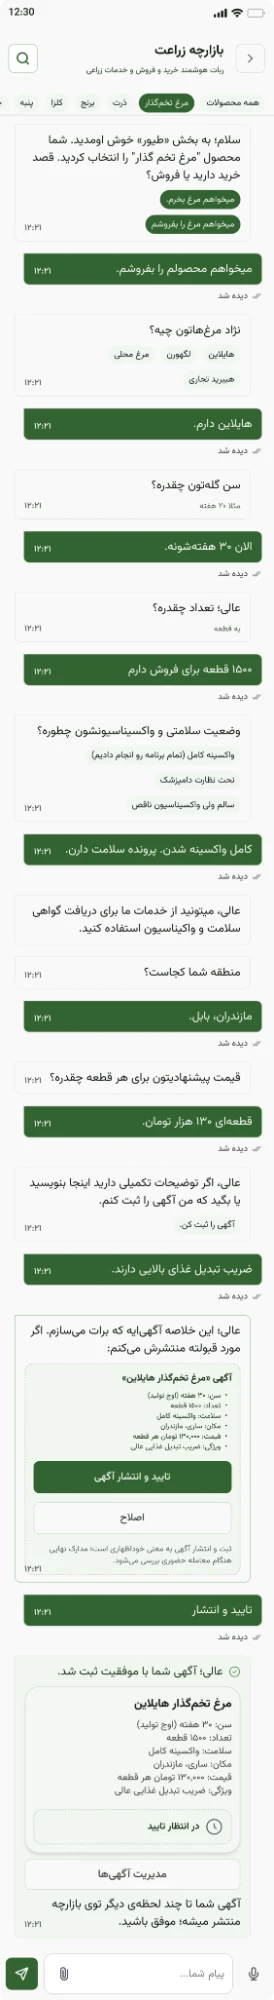
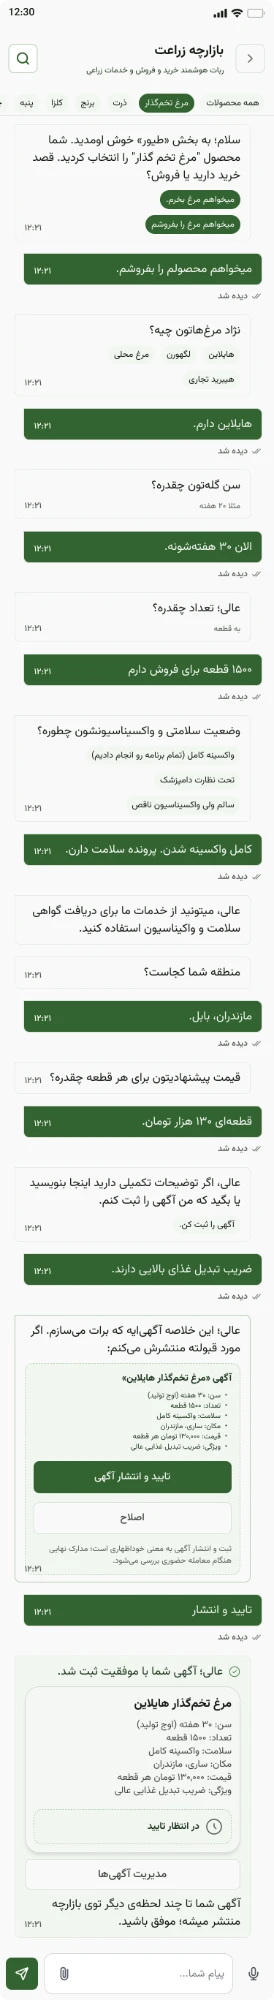
Lead Agrino's case study with its price screens
The newer price screens (today's prices, wheat's average, a price alert)
become the hero. The earlier hero screens move into the market bot's numbered
steps, start and ask, ahead of the full ad flow, which is swapped for a
cleaner export. The unused wheat-bot intro is dropped.

diff --git a/Agrino.html b/Agrino.html
@@ -83,24 +83,24 @@
            its GSAP fade-up. The two must never share an element. -->
       <div class="ag-hero-shot" data-speed="0.04" style="width: 272px; max-width: 100%; transform: translateY(14px);">
       <figure data-gsap="fade-up" style="margin: 0; border-radius: 32px; overflow: hidden; border: 1px solid #dce0e6; box-shadow: 0 24px 60px rgba(20,23,28,.16); background: #fff;">
-        <img src="assets/agrino-market-bot.webp" alt="Agrino market bot — a greeting and four starting points: top ads, post an ad, today's prices, a guide" style="display: block; width: 100%; height: auto;">
+        <img src="assets/agrino-prices.webp" alt="Agrino market bot — today's national average prices for five crops, each with its daily change" style="display: block; width: 100%; height: auto;">
       </figure>
       </div>
       <div class="ag-hero-shot" data-speed="-0.06" style="width: 272px; max-width: 100%;">
       <figure data-gsap="fade-up" style="margin: 0; border-radius: 32px; overflow: hidden; border: 1px solid #dce0e6; box-shadow: 0 28px 70px rgba(20,23,28,.20); background: #fff;">
-        <img src="assets/agrino-wheat-bot.webp" alt="Agrino wheat bot — an illustrated farmer and suggested questions about wheat" style="display: block; width: 100%; height: auto;">
+        <img src="assets/agrino-wheat-price.webp" alt="Agrino market bot — the national average wheat price, its range and active ads, with follow-up chips" style="display: block; width: 100%; height: auto;">
       </figure>
       </div>
       <div class="ag-hero-shot" data-speed="0.04" style="width: 272px; max-width: 100%; transform: translateY(14px);">
       <figure data-gsap="fade-up" style="margin: 0; border-radius: 32px; overflow: hidden; border: 1px solid #dce0e6; box-shadow: 0 24px 60px rgba(20,23,28,.16); background: #fff;">
-        <img src="assets/agrino-sell-wheat.webp" alt="Agrino chat — a farmer asks to sell wheat and the bot offers wheat types as chips" style="display: block; width: 100%; height: auto;">
+        <img src="assets/agrino-price-alert.webp" alt="Agrino market bot — setting a wheat price alert for Khorasan at a chosen threshold" style="display: block; width: 100%; height: auto;">
       </figure>
       </div>
     </div>
     <!-- position: relative keeps this bar painted over the phones' shadows;
          a translated element paints above any plain sibling that follows. -->
     <div style="position: relative; border-top: 1px solid #e2e5eb; padding: 14px 24px; display: flex; justify-content: space-between; flex-wrap: wrap; gap: 8px; font-family: 'JetBrains Mono', monospace; font-size: 11px; color: #7a8493; background: rgba(255,255,255,.5);">
-      <span>[ agrino · market bot ]</span>
+      <span>[ agrino · market bot · prices ]</span>
       <span>persian · rtl</span>
     </div>
   </div>
@@ -197,18 +197,26 @@
     <!-- Block B · selling through the market bot -->
     <div class="r-side" style="border-top: 1px solid #eef0f3; margin-top: 56px; padding-top: clamp(26px, 3.84vw, 48px); display: grid; grid-template-columns: 200px 1fr; gap: clamp(26px, 3.84vw, 48px); margin-bottom: 28px;">
       <div style="font-family: 'JetBrains Mono', monospace; font-size: 11px; letter-spacing: 0.14em; text-transform: uppercase; color: #97a0ad;">→ the market bot</div>
-      <p style="font-size: 16px; line-height: 1.7; color: #3a414d; max-width: 62ch; margin: 0;">Buying and selling run as a conversation. The bot asks one question at a time and offers likely answers as chips, so a farmer can post an ad without filling in a form. It ends on a summary to confirm or correct, and the ad can be managed afterwards.</p>
+      <p style="font-size: 16px; line-height: 1.7; color: #3a414d; max-width: 62ch; margin: 0;">Buying and selling run as a conversation. The bot asks one question at a time and offers likely answers as chips, so a farmer can post an ad without filling in a form. It ends on a summary to confirm or correct, and the ad can be managed afterwards. Prices work the same way: today's prices across crops, one crop's average and range, and an alert when it crosses a level, all from the same chat.</p>
     </div>
     <div style="display: flex; gap: 20px; align-items: flex-start; flex-wrap: wrap;">
-      <figure style="flex: 0 1 272px; margin: 0; border: 1px solid #e2e5ea; border-radius: 26px; overflow: hidden; background: #fff; box-shadow: 0 14px 40px rgba(20,23,28,.10);">
+      <figure data-gsap="fade-up" style="flex: 1 1 220px; max-width: 272px; margin: 0; border: 1px solid #e2e5ea; border-radius: 26px; overflow: hidden; background: #fff; box-shadow: 0 14px 40px rgba(20,23,28,.10);">
+        <img src="assets/agrino-market-bot.webp" alt="Agrino market bot — a greeting and four starting points: top ads, post an ad, today's prices, a guide" style="display: block; width: 100%; height: auto;">
+        <figcaption style="padding: 16px 20px; border-top: 1px solid #eef0f3;"><span style="font-family: 'JetBrains Mono', monospace; font-size: 10px; letter-spacing: 0.12em; text-transform: uppercase; color: #97a0ad; display: block; margin-bottom: 5px;">01 · start</span><span style="font-size: 13px; line-height: 1.5; color: #5a6270;">A greeting and four ways in, instead of an empty prompt.</span></figcaption>
+      </figure>
+      <figure data-gsap="fade-up" style="flex: 1 1 220px; max-width: 272px; margin: 0; border: 1px solid #e2e5ea; border-radius: 26px; overflow: hidden; background: #fff; box-shadow: 0 14px 40px rgba(20,23,28,.10);">
+        <img src="assets/agrino-sell-wheat.webp" alt="Agrino market bot — a farmer asks to sell wheat and the bot offers wheat types as chips" style="display: block; width: 100%; height: auto;">
+        <figcaption style="padding: 16px 20px; border-top: 1px solid #eef0f3;"><span style="font-family: 'JetBrains Mono', monospace; font-size: 10px; letter-spacing: 0.12em; text-transform: uppercase; color: #97a0ad; display: block; margin-bottom: 5px;">02 · ask</span><span style="font-size: 13px; line-height: 1.5; color: #5a6270;">Ask in plain words; the bot answers with choices to tap.</span></figcaption>
+      </figure>
+      <figure style="flex: 1 1 220px; max-width: 272px; margin: 0; border: 1px solid #e2e5ea; border-radius: 26px; overflow: hidden; background: #fff; box-shadow: 0 14px 40px rgba(20,23,28,.10);">
         <div data-gsap="fade-up" style="height: 560px; overflow-y: auto; background: #f6f7f9;">
           <img src="assets/agrino-ad-flow.webp" alt="Agrino market bot — a full conversation posting an ad for laying hens, ending in a confirmed summary" style="display: block; width: 100%; height: auto;">
         </div>
-        <figcaption style="padding: 16px 20px; border-top: 1px solid #eef0f3;"><span style="font-family: 'JetBrains Mono', monospace; font-size: 10px; letter-spacing: 0.12em; text-transform: uppercase; color: #97a0ad; display: block; margin-bottom: 5px;">01 · post · scroll ↓</span><span style="font-size: 13px; line-height: 1.5; color: #5a6270;">One conversation, from greeting to a published ad.</span></figcaption>
+        <figcaption style="padding: 16px 20px; border-top: 1px solid #eef0f3;"><span style="font-family: 'JetBrains Mono', monospace; font-size: 10px; letter-spacing: 0.12em; text-transform: uppercase; color: #97a0ad; display: block; margin-bottom: 5px;">03 · post · scroll ↓</span><span style="font-size: 13px; line-height: 1.5; color: #5a6270;">One conversation, from greeting to a published ad.</span></figcaption>
       </figure>
-      <figure data-gsap="fade-up" style="flex: 0 1 272px; margin: 0; border: 1px solid #e2e5ea; border-radius: 26px; overflow: hidden; background: #fff; box-shadow: 0 14px 40px rgba(20,23,28,.10);">
+      <figure data-gsap="fade-up" style="flex: 1 1 220px; max-width: 272px; margin: 0; border: 1px solid #e2e5ea; border-radius: 26px; overflow: hidden; background: #fff; box-shadow: 0 14px 40px rgba(20,23,28,.10);">
         <img src="assets/agrino-my-ads.webp" alt="Agrino — my ads, each with its status and the details the bot collected" style="display: block; width: 100%; height: auto;">
-        <figcaption style="padding: 16px 20px; border-top: 1px solid #eef0f3;"><span style="font-family: 'JetBrains Mono', monospace; font-size: 10px; letter-spacing: 0.12em; text-transform: uppercase; color: #97a0ad; display: block; margin-bottom: 5px;">02 · manage</span><span style="font-size: 13px; line-height: 1.5; color: #5a6270;">Posted ads, with their status and the details the bot collected.</span></figcaption>
+        <figcaption style="padding: 16px 20px; border-top: 1px solid #eef0f3;"><span style="font-family: 'JetBrains Mono', monospace; font-size: 10px; letter-spacing: 0.12em; text-transform: uppercase; color: #97a0ad; display: block; margin-bottom: 5px;">04 · manage</span><span style="font-size: 13px; line-height: 1.5; color: #5a6270;">Posted ads, with their status and the details the bot collected.</span></figcaption>
       </figure>
     </div>
 
@@ -218,15 +226,15 @@
       <p style="font-size: 16px; line-height: 1.7; color: #3a414d; max-width: 62ch; margin: 0;">Large agribusinesses get a space of their own. A farmer picks a business, follows its channel, and sends requests — contracts, inputs, invoices — through its farmers' office, where each one keeps a visible status.</p>
     </div>
     <div style="display: flex; gap: 20px; align-items: flex-start; flex-wrap: wrap;">
-      <figure data-gsap="fade-up" style="flex: 0 1 272px; margin: 0; border: 1px solid #e2e5ea; border-radius: 26px; overflow: hidden; background: #fff; box-shadow: 0 14px 40px rgba(20,23,28,.10);">
+      <figure data-gsap="fade-up" style="flex: 1 1 220px; max-width: 272px; margin: 0; border: 1px solid #e2e5ea; border-radius: 26px; overflow: hidden; background: #fff; box-shadow: 0 14px 40px rgba(20,23,28,.10);">
         <img src="assets/agrino-business-clan.webp" alt="Agrino — a directory of agribusinesses, shown by logo" style="display: block; width: 100%; height: auto;">
         <figcaption style="padding: 16px 20px; border-top: 1px solid #eef0f3;"><span style="font-family: 'JetBrains Mono', monospace; font-size: 10px; letter-spacing: 0.12em; text-transform: uppercase; color: #97a0ad; display: block; margin-bottom: 5px;">01 · choose</span><span style="font-size: 13px; line-height: 1.5; color: #5a6270;">The businesses on Agrino.</span></figcaption>
       </figure>
-      <figure data-gsap="fade-up" style="flex: 0 1 272px; margin: 0; border: 1px solid #e2e5ea; border-radius: 26px; overflow: hidden; background: #fff; box-shadow: 0 14px 40px rgba(20,23,28,.10);">
+      <figure data-gsap="fade-up" style="flex: 1 1 220px; max-width: 272px; margin: 0; border: 1px solid #e2e5ea; border-radius: 26px; overflow: hidden; background: #fff; box-shadow: 0 14px 40px rgba(20,23,28,.10);">
         <img src="assets/agrino-channel.webp" alt="Agrino — a business channel with its farmers' office pinned above its sub-channels" style="display: block; width: 100%; height: auto;">
         <figcaption style="padding: 16px 20px; border-top: 1px solid #eef0f3;"><span style="font-family: 'JetBrains Mono', monospace; font-size: 10px; letter-spacing: 0.12em; text-transform: uppercase; color: #97a0ad; display: block; margin-bottom: 5px;">02 · follow</span><span style="font-size: 13px; line-height: 1.5; color: #5a6270;">A business's channel, with its farmers' office pinned on top.</span></figcaption>
       </figure>
-      <figure data-gsap="fade-up" style="flex: 0 1 272px; margin: 0; border: 1px solid #e2e5ea; border-radius: 26px; overflow: hidden; background: #fff; box-shadow: 0 14px 40px rgba(20,23,28,.10);">
+      <figure data-gsap="fade-up" style="flex: 1 1 220px; max-width: 272px; margin: 0; border: 1px solid #e2e5ea; border-radius: 26px; overflow: hidden; background: #fff; box-shadow: 0 14px 40px rgba(20,23,28,.10);">
         <img src="assets/agrino-farmers-office.webp" alt="Agrino farmers' office — request history grouped by week and month, each with a status" style="display: block; width: 100%; height: auto;">
         <figcaption style="padding: 16px 20px; border-top: 1px solid #eef0f3;"><span style="font-family: 'JetBrains Mono', monospace; font-size: 10px; letter-spacing: 0.12em; text-transform: uppercase; color: #97a0ad; display: block; margin-bottom: 5px;">03 · request</span><span style="font-size: 13px; line-height: 1.5; color: #5a6270;">Request history, each with its review status.</span></figcaption>
       </figure>

diff --git a/CLAUDE.md b/CLAUDE.md
@@ -984,14 +984,17 @@ invisible. Don't change that colour on its own.
 
 ### Agrino's screens are WebP too
 
-The 10 `assets/agrino-*.webp` files (750 KB in all) came from Farhad in Oct
-2026. The six that arrived as WebP are copied byte-for-byte; the four PNGs
-(`my-ads`, `channel`, `business-clan`, `farmers-office`) were converted with
-`cwebp -q 88`. `agrino-ad-flow.webp` is a whole conversation as one strip, only
-274px wide, so it sits in a 560px scroll frame at about its native width. Give
-it a wider column and it goes soft. The hero's three phones are the market
-bot (`market-bot`, `wheat-bot`, `sell-wheat`), and `market-bot` is also the
-home card-stack image.
+The 12 `assets/agrino-*.webp` files (about 0.8 MB in all) came from Farhad in Oct
+2026, in two batches. Everything that arrived as WebP is copied byte-for-byte.
+The four PNGs (`my-ads`, `channel`, `business-clan`, `farmers-office`) were
+converted with `cwebp -q 88`. `agrino-ad-flow.webp` is a whole conversation as
+one strip, only 274px wide, so it sits in a 560px scroll frame at about its
+native width. Give it a wider column and it goes soft. The second batch is a
+newer chat style (robot avatar, one "all products" pill), and its three price
+screens (`prices`, `wheat-price`, `price-alert`) are the hero. The older-style
+market-bot screens are the four numbered steps below it, and `market-bot` is
+also the home card-stack image. A wheat-bot intro screen from the first batch
+was dropped when the hero changed.
 
 ### Testimonial avatars
 
